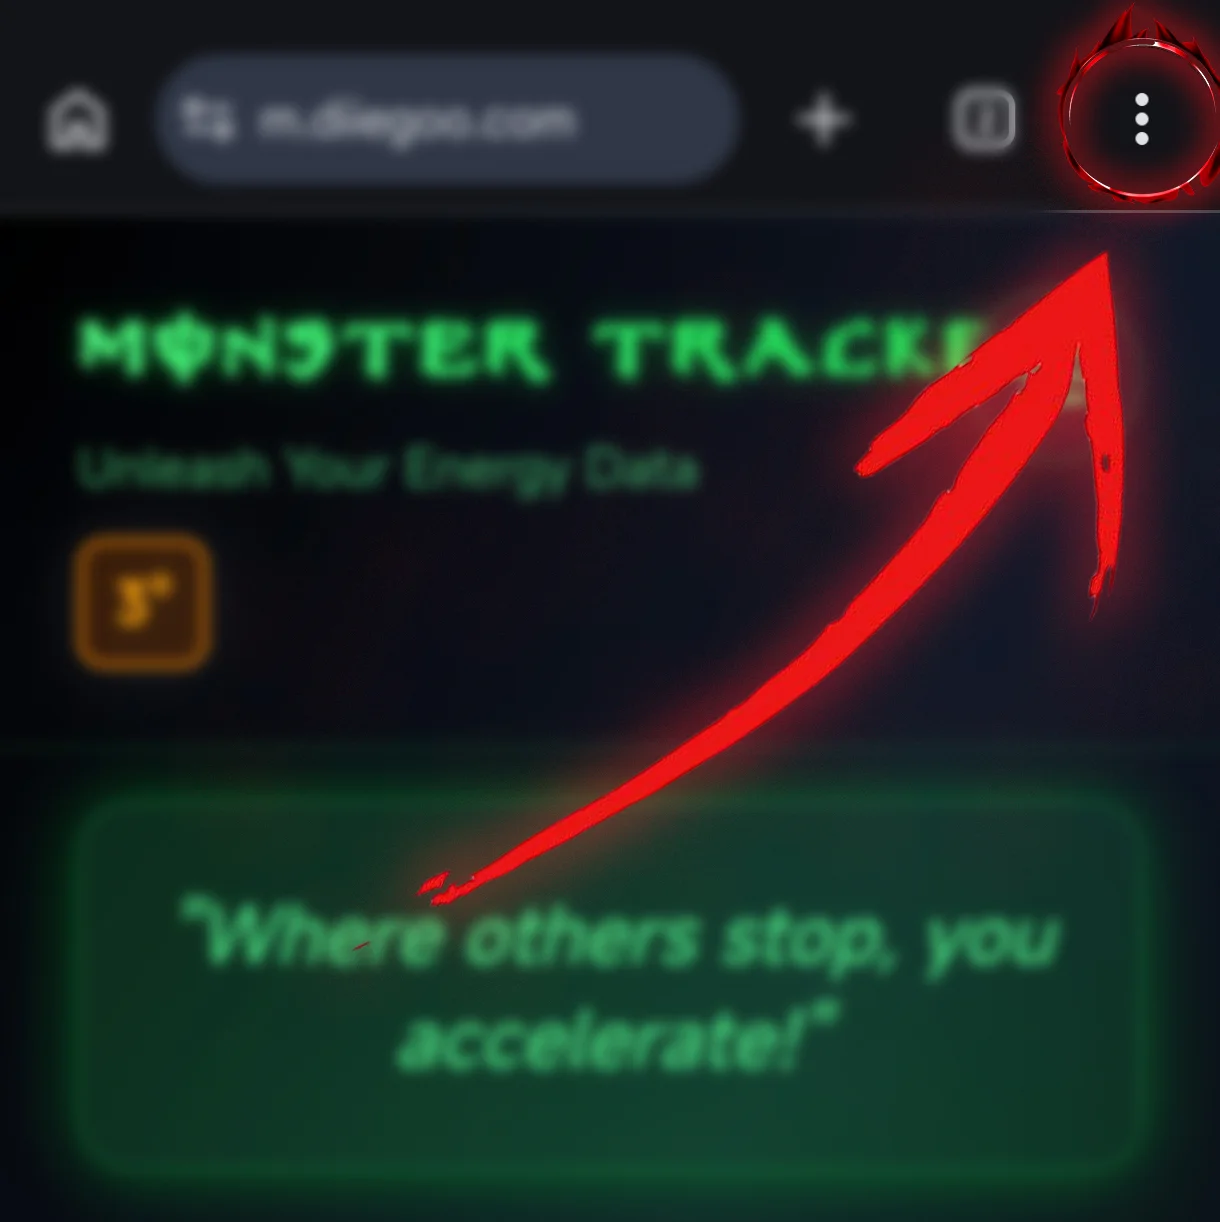
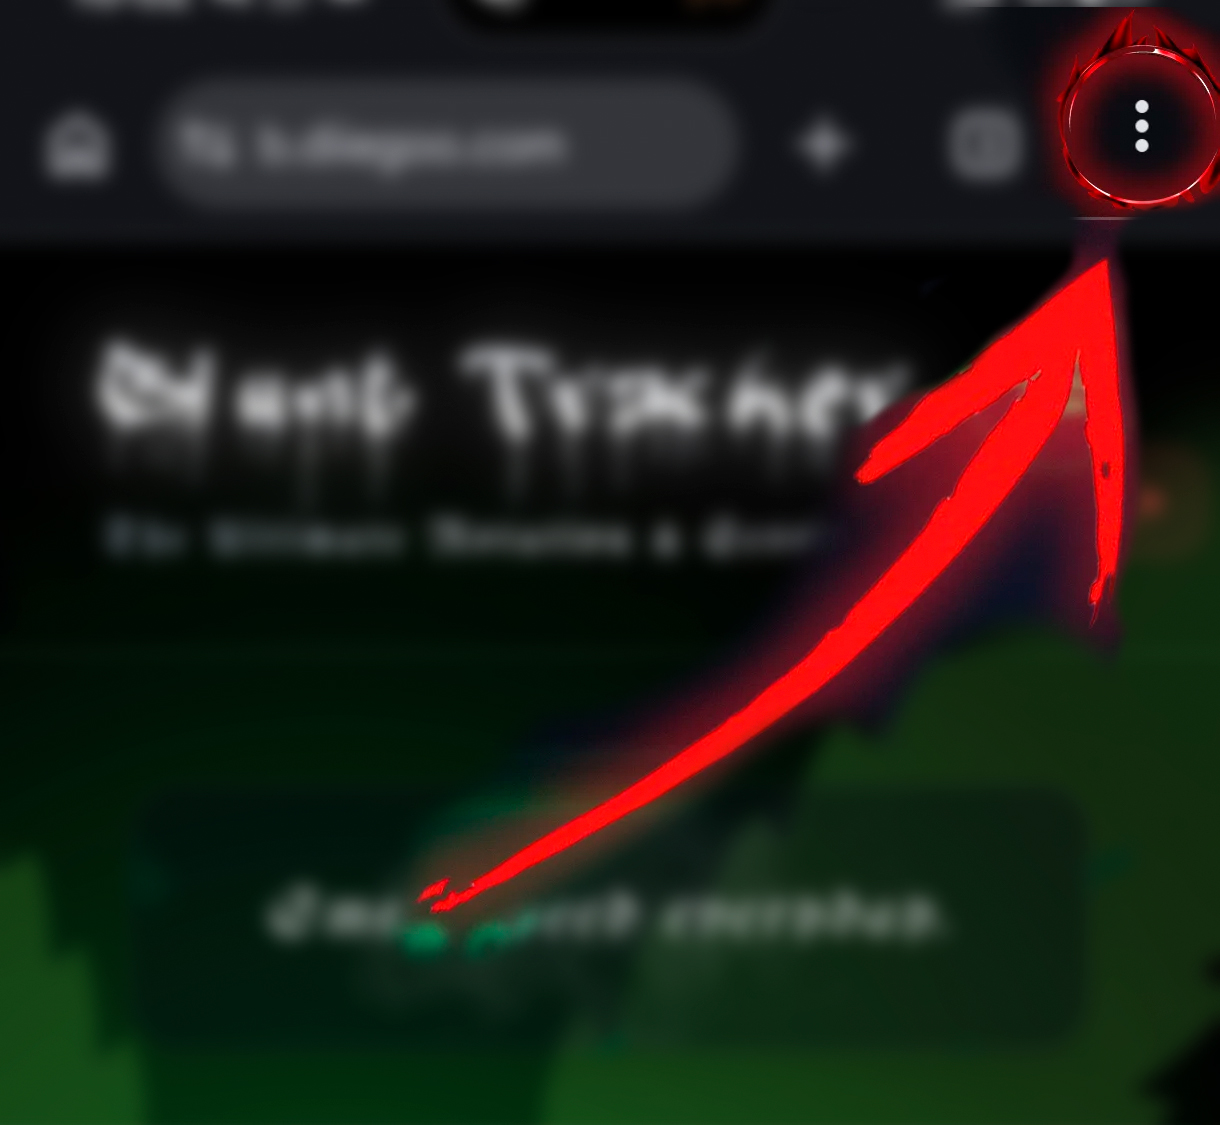
UI: Corrected 'latas' to 'blunts' in PWA tutorial.

diff --git a/src/components/PWAInstallGuideModal.jsx b/src/components/PWAInstallGuideModal.jsx
@@ -21,7 +21,7 @@ const steps = [
   {
     image: '/tutorial-images/tut-4.webp',
     title: '¡Usa los Atajos Rápidos!',
-    description: 'Mantén pulsado el icono de la app para acceder para añadir tus latas. (Solo funciona en Android, en iOS no está disponible).',
+    description: 'Mantén pulsado el icono de la app para acceder y añadir tus blunts. (Solo funciona en Android, en iOS no está disponible).',
   }
 ];
 